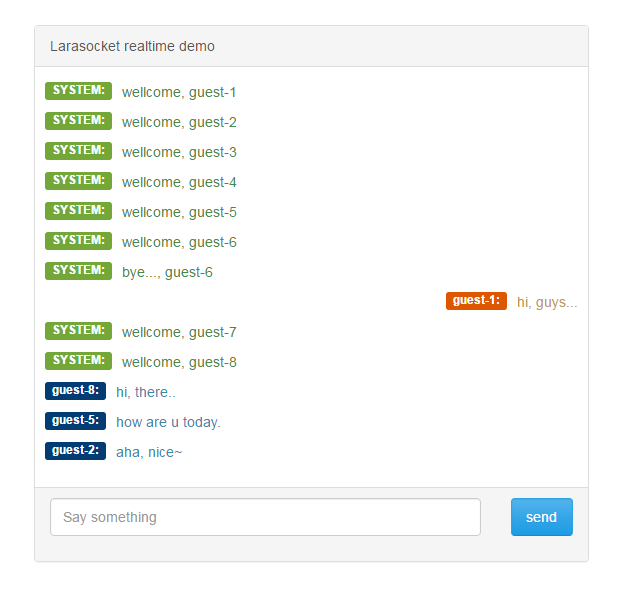
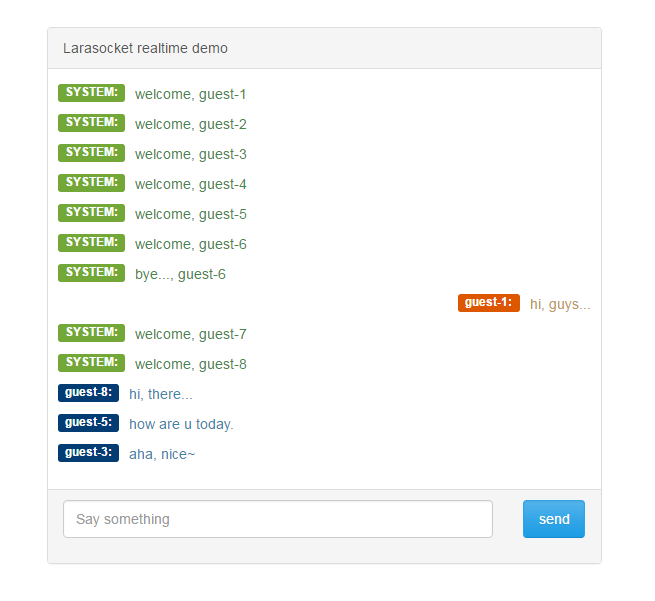
fix the typo

diff --git a/src/Larasocket.php b/src/Larasocket.php
@@ -11,9 +11,9 @@ class Larasocket implements Socket
     public function onOpen($server, $req)
     {
         $this->server = $server;
-        $this->data = 'wellcome, guest-'.$req->fd;
+        $this->data = 'welcome, guest-'.$req->fd;
         $this->server->push($req->fd, json_encode(['type'=>'login', 'status'=>'success', 'from'=>'guest-' . $req->fd]));
-        $this->push('wellcome');
+        $this->push('welcome');
     }
 
     public function onMessage($server, $frame)
@@ -34,7 +34,7 @@ class Larasocket implements Socket
     public function onClose($server, $fd)
     {
         $this->data = 'bye..., guest-'.$fd;
-        $this->push('wellcome');
+        $this->push('welcome');
     }
 
     public function onRequest($request, $response)

diff --git a/src/views/wsdemo.blade.php b/src/views/wsdemo.blade.php
@@ -75,7 +75,7 @@
                     }
                     $('.panel-body').append(html);
                     break;
-                case 'wellcome':
+                case 'welcome':
                     var html ="";
                         html +=  '<div class="row">';
                         html +=     '<div class="text-left msg">';
